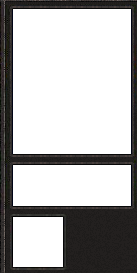
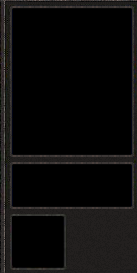
changed drawing routines to use more SDL routines, and less direct manipulation of surfaces
git-svn-id: http://svn.gna.org/svn/wesnoth/trunk@676 75b3775d-3801-0410-9e12-e2e43121521d

diff --git a/src/display.cpp b/src/display.cpp
@@ -1287,8 +1287,6 @@ void display::draw_tile(int x, int y, SDL_Surface* unit_image_override,
 		highlight_ratio = deadAmount_;
 	}
 
-	const int xpad = is_odd(surface->w);
-
 	SDL_Surface* const dst = screen_.getSurface();
 
 	Pixel grid_colour = SDL_MapRGB(dst->format,0,0,0);
@@ -1342,70 +1340,52 @@ void display::draw_tile(int x, int y, SDL_Surface* unit_image_override,
 		const int srcy = minimum<int>(yloc,surface->h-1);
 		assert(srcy >= 0);
 
-		surface_lock srclock(surface);
-		const int diff = maximum<int>(0,srcy*(surface->w+xpad) + maximum<int>(xoffset,xsrc));
-		short* startsrc = srclock.pixels() + diff;
-		len = minimum<int>(len,(surface->w+xpad)*surface->h - diff);
+		const int diff = maximum<int>(0,srcy*surface->w + maximum<int>(xoffset,xsrc));
+		len = minimum<int>(len,surface->w*surface->h - diff);
 		if(len <= 0) {
 			continue;
 		}
 
-		short* endsrc = startsrc + len;
+		SDL_Rect srcrect = { maximum<int>(xoffset,xsrc), srcy, len, 1 };
+		SDL_Rect dstrect = { xdst, j, 0, 0 };
 
-		if(!(startsrc >= srclock.pixels() &&
-		       endsrc <= srclock.pixels() + (surface->w+xpad)*surface->h)) {
-			std::cerr << "CRITICAL ERROR: overwrite at " << __FILE__ << ","
-			          << __LINE__ << "\n"
-			          << "len: " << len << "\n"
-			          << "width: " << surface->w << "\n"
-			          << "x: " << x << "\n"
-			          << "y: " << y << "\n";
-		}
-
-		surface_lock dstlock(dst);
-		short* startdst = dstlock.pixels() + j*dst->w + xdst;
-		std::copy(startsrc,endsrc,startdst);
+		SDL_BlitSurface(surface,&srcrect,dst,&dstrect);
 
 		int extra = 0;
+
+		SDL_Rect end_srcrect = { srcrect.x + srcrect.w - 1, srcrect.y, 1, 1 };
 
 		//if the line didn't make it to the next hex, then fill in with the
 		//last pixel up to the next hex
 		if(ne_ypos > 0 && xdst + len < minoffset && len > 0) {
 			extra = minimum(minoffset-(xdst + len),map_area().x+map_area().w-(xdst+len));
-			std::fill(startdst+len,startdst+len+extra,startsrc[len-1]);
+			SDL_Rect rect = { dstrect.x + len, dstrect.y, 1, 1 };
+			for(int n = 0; n != extra; ++n, ++rect.x) {
+				SDL_BlitSurface(surface,&end_srcrect,dst,&rect);
+			}
 		}
 
 		//copy any overlapping tiles on
 		for(std::vector<SDL_Surface*>::const_iterator ov = overlaps.begin();
 		    ov != overlaps.end(); ++ov) {
-			const int srcy = minimum<int>(yloc,(*ov)->h-1);
-			const int w = (*ov)->w + is_odd((*ov)->w);
+			SDL_BlitSurface(*ov,&srcrect,dst,&dstrect);
 
-			surface_lock overlap_lock(*ov);
-			short* beg = overlap_lock.pixels() +
-			             srcy*w + (xoffset > xsrc ? xoffset:xsrc);
-			short* end = beg + len;
-			short* dst = startdst;
-
-			while(beg != end) {
-				if(*beg != 0) {
-					*dst = *beg;
-				}
-
-				++dst;
-				++beg;
+			for(int i = 0; i != extra; ++i) {
+				SDL_Rect rect = { dstrect.x + len + i, dstrect.y, 1, 1 };
+				SDL_BlitSurface(*ov,&end_srcrect,dst,&rect);
 			}
 
-			//fill in any extra pixels on the end
-			if(extra > 0 && len > 0 && beg[-1] != 0)
-				std::fill(dst,dst+extra,beg[-1]);
-		}
-
-		if((grid_ || show_unit_colour) && startsrc < endsrc) {
-			*startdst = grid_colour;
-			*(startdst+len-1) = grid_colour;
-			if(j == ypos || j == yend-1) {
-				std::fill(startdst,startdst+len,grid_colour);
+			if((grid_ || show_unit_colour) && dstrect.w >= 1) {
+				SDL_Rect rect = dstrect;
+				if(j == ypos || j == yend-1) {
+					SDL_FillRect(dst,&rect,grid_colour);
+				} else {
+					rect.w = 1;
+					rect.h = 1;
+					SDL_FillRect(dst,&rect,grid_colour);
+					rect.x += rect.w-1;
+					SDL_FillRect(dst,&rect,grid_colour);
+				}
 			}
 		}
 	}

diff --git a/src/sdl_utils.cpp b/src/sdl_utils.cpp
@@ -32,41 +32,35 @@ SDL_Surface* scale_surface(SDL_Surface* surface, int w, int h)
 	if(surface == NULL)
 		return NULL;
 
-	SDL_Surface* const dest = SDL_CreateRGBSurface(SDL_SWSURFACE,w,h,
+	SDL_Surface* dest = SDL_CreateRGBSurface(SDL_SWSURFACE,w,h,
 					                     surface->format->BitsPerPixel,
 										 surface->format->Rmask,
 										 surface->format->Gmask,
 										 surface->format->Bmask,
 										 surface->format->Amask);
+
 	if(dest == NULL) {
 		std::cerr << "Could not create surface to scale onto\n";
 		return NULL;
 	}
+
+	SDL_SetColorKey(dest,SDL_SRCCOLORKEY,SDL_MapRGB(dest->format,0,0,0));
 
 	const double xratio = static_cast<double>(surface->w)/
 			              static_cast<double>(w);
 	const double yratio = static_cast<double>(surface->h)/
 			              static_cast<double>(h);
 
-	const int srcxpad = is_odd(surface->w) ? 1:0;
-	const int dstxpad = is_odd(dest->w) ? 1:0;
-
-	surface_lock dstlock(dest);
-	surface_lock srclock(surface);
-
 	double ysrc = 0.0;
 	for(int ydst = 0; ydst != h; ++ydst, ysrc += yratio) {
 		double xsrc = 0.0;
 		for(int xdst = 0; xdst != w; ++xdst, xsrc += xratio) {
-			int xsrcint = static_cast<int>(xsrc);
+			const int xsrcint = static_cast<int>(xsrc);
 			const int ysrcint = static_cast<int>(ysrc);
 
-			xsrcint += srcxpad*ysrcint;
-
-			const int dstpad = dstxpad*ydst;
-
-			dstlock.pixels()[ydst*w + xdst + dstpad] =
-			             srclock.pixels()[ysrcint*surface->w + xsrcint];
+			SDL_Rect srcrect = { xsrcint, ysrcint, 1, 1 };
+			SDL_Rect dstrect = { xdst, ydst, 1, 1 };
+			SDL_BlitSurface(surface,&srcrect,dest,&dstrect);
 		}
 	}
 

diff --git a/src/image.cpp b/src/image.cpp
@@ -62,6 +62,7 @@ SDL_Surface* get_tinted(const std::string& filename, TINT tint)
 										 base->format->Gmask,
 										 base->format->Bmask,
 										 base->format->Amask);
+	SDL_SetColorKey(surface,SDL_SRCCOLORKEY,SDL_MapRGB(surface->format,0,0,0));
 
 	images.insert(std::pair<std::string,SDL_Surface*>(filename,surface));
 
@@ -233,6 +234,8 @@ SDL_Surface* get_image(const std::string& filename,TYPE type)
 				SDL_FreeSurface(surf);
 				surf = conv;
 			}
+
+			SDL_SetColorKey(surf,SDL_SRCCOLORKEY,SDL_MapRGB(surf->format,0,0,0));
 
 			i = images_.insert(std::pair<std::string,SDL_Surface*>(filename,surf)).first;
 		}

diff --git a/src/widgets/button.cpp b/src/widgets/button.cpp
@@ -79,6 +79,7 @@ button::button(display& disp, const std::string& label, button::TYPE type,
 		pressedImage_.assign(scale_surface(pressed_image,w_,h_));
 		activeImage_.assign(scale_surface(active_image,w_,h_));
 		pressedActiveImage_.assign(scale_surface(pressed_active_image,w_,h_));
+
 	} else {
 		w_ = horizontal_padding + textRect_.w + button_image->w;
 		image_.assign(scale_surface(button_image,button_image->w,button_image->h));
